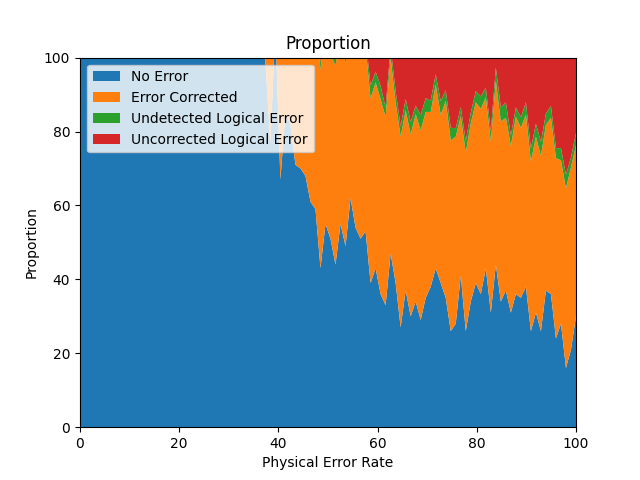
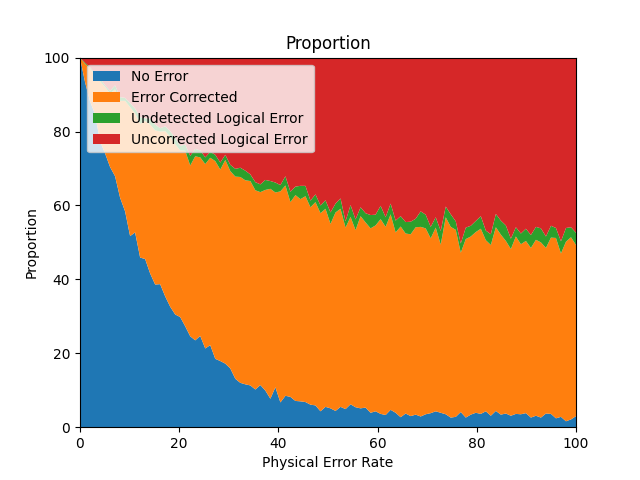
debug plots

diff --git a/bs13/BS13_PauliSim.py b/bs13/BS13_PauliSim.py
@@ -187,9 +187,10 @@ if __name__ == "__main__":
     error_not_corrected = data[5].astype(np.uint16)
 
 
-    repetitions = len(physical_error_rate)
+    repetitions = 1000
     # plot error statistics before correction
     error_before_detection = error_not_detected + error_detected
+    no_error_rate = no_error*(100/repetitions)
     failed_detection_rate = error_not_detected*(100/repetitions)
     error_detection_rate = error_detected*(100/repetitions)
 
@@ -208,7 +209,7 @@ if __name__ == "__main__":
     labels = [
         "Total Logical Error Rate"
         ]
-    ax.plot(physical_error_rate*100, proportions,
+    ax.stackplot(physical_error_rate*100, proportions,
                 labels= labels)
     ax.plot(physical_error_rate*100,physical_error_rate*100)
     ax.legend(loc='upper left')
@@ -222,7 +223,7 @@ if __name__ == "__main__":
 
     
     fig, ax = plt.subplots()
-    proportions = [no_error, total_error_corrected_rate, failed_detection_rate, total_error_not_corrected_rate]
+    proportions = [no_error_rate, total_error_corrected_rate, failed_detection_rate, total_error_not_corrected_rate]
     labels = [
         "No Error",
         "Error Corrected",

diff --git a/bs13/PauliSim.py b/bs13/PauliSim.py
@@ -279,7 +279,7 @@ if __name__ == "__main__":
     for i in range(100):
         sim = PauliSim(2)
         target = [0,1]
-        sim.addDepolarizingNoise(target,1,2)
+        sim.addDepolarizingNoise(target,0.1,2)
         print(sim.execute())
         print(sim.getOperations())
     print("\n")
